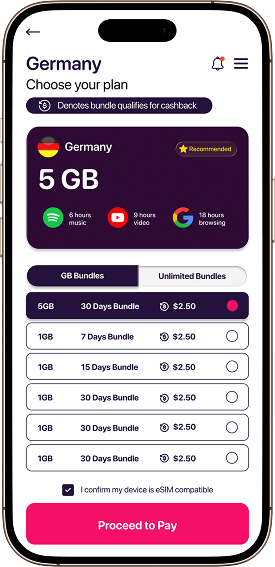
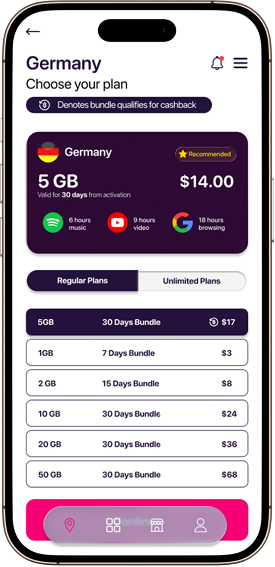
update single country

diff --git a/ar/single-country.html b/ar/single-country.html
@@ -119,20 +119,27 @@
                                     موصى به
                                 </div>
                             </div>
-                            <div class="flex flex-wrap gap-2 justify-between">
-                                <div class="flex flex-col gap-2">
-                                    <h3 class="font-bold text-4xl">غير محدود لمدة 7 أيام</h3>
-                                    <p class="text-nowrap font-medium text-xs">وصول غير محدود إلى الإنترنت*
-                                    </p>
-                                </div>
-                                <h3 class="font-bold text-4xl">$7.00</h3>
-                            </div>
                         </div>
-                        <p class="font-medium leading-5 text-xs">في حال تجاوزت 1 جيجابايت من البيانات المسموح بها يوميًا
+                        <div class="flex flex-col gap-4">
+                            <div class="flex flex-wrap gap-2 justify-between">
+                                <h3 class="font-bold text-4xl">غير محدود لمدة 7 أيام</h3>
+                                <h3 class="font-bold text-4xl">$17.00</h3>
+                            </div>
+                            <p class="opacity-90 text-nowrap font-medium text-xs">وصول غير محدود للإنترنت*
+                            </p>
+                            <p class="opacity-90 font-medium leading-5 text-xs">في حال تجاوزت 1 جيجابايت من البيانات
+                                المسموح بها يوميًا
+                                (بسرعة عالية)،
+                                سيتم تحديد السرعة إلى 512 كيلوبت في الثانية لبقية اليوم، مما قد يؤثر على تجربتك في
+                                مشاهدة
+                                الفيديوهات عبر الإنترنت واستخدام التطبيقات الأخرى التي تستهلك كميات كبيرة من البيانات.
+                            </p>
+                        </div>
+                        <!-- <p class="font-medium leading-5 text-xs">في حال تجاوزت 1 جيجابايت من البيانات المسموح بها يوميًا
                             (بسرعة عالية)،
                             سيتم تحديد السرعة إلى 512 كيلوبت في الثانية لبقية اليوم، مما قد يؤثر على تجربتك في مشاهدة
                             الفيديوهات عبر الإنترنت واستخدام التطبيقات الأخرى التي تستهلك كميات كبيرة من البيانات.
-                        </p>
+                        </p> -->
                     </div>
                 </div>
             </div>
@@ -479,15 +486,80 @@
                     </ul>
                     <ul class="list-unlimited-plans w-full flex flex-col gap-[10px] hidden">
                         <li class="cursor-pointer group hover:bg-[var(--is-blue)] hover:text-white rounded-[10px] border border-[var(--is-blue)] bundle-item"
-                            data-aos="fade-up" title="حزمة 30 يومًا"
-                            data-bundle='{"size":"50GB","name":"حزمة 30 يومًا","price":"$68.00"}'>
+                            data-aos="fade-up" title="إنترنت بدون حدود"
+                            data-bundle='{"size":"7 days","name":"Unlimited Internet","price":"$17.00"}'>
                             <div class="font-bold w-full py-2 px-3 md:px-4 flex justify-between items-center">
-                                <p class="text-sm md:text-2xl">50GB</p>
-                                <p class="text-sm md:text-lg">حزمة 30 يومًا</p>
+                                <p class="text-sm md:text-2xl">7 ايام</p>
+                                <p class="text-sm md:text-lg">إنترنت بدون حدود</p>
                                 <div class="flex items-center gap-[5px] w-[110px] min-w-[20px]">
                                     <img src="../assets/icons/cashback.svg" alt="cashback"
                                         class="w-3 h-3 md:w-5 md:h-5 group-hover:invert" />
-                                    <p class="text-sm md:text-lg break-all">$68.00</p>
+                                    <p class="text-sm md:text-lg break-all text-center">$17.00</p>
+                                </div>
+                            </div>
+                        </li>
+                        <li class="cursor-pointer group hover:bg-[var(--is-blue)] hover:text-white rounded-[10px] border border-[var(--is-blue)] bundle-item"
+                            data-aos="fade-up" title="إنترنت بدون حدود"
+                            data-bundle='{"size":"1 days","name":"Unlimited Internet","price":"$3.00"}'>
+                            <div class="font-bold w-full py-2 px-3 md:px-4 flex justify-between items-center">
+                                <p class="text-sm md:text-2xl">1 ايام</p>
+                                <p class="text-sm md:text-lg">إنترنت بدون حدود</p>
+                                <div class="flex items-center gap-[5px] w-[110px] min-w-[20px]">
+                                    <img src="../assets/icons/cashback.svg" alt="cashback"
+                                        class="w-3 h-3 md:w-5 md:h-5 group-hover:invert" />
+                                    <p class="text-sm md:text-lg break-all text-center">$3.00</p>
+                                </div>
+                            </div>
+                        </li>
+                        <li class="cursor-pointer group hover:bg-[var(--is-blue)] hover:text-white rounded-[10px] border border-[var(--is-blue)] bundle-item"
+                            data-aos="fade-up" title="إنترنت بدون حدود"
+                            data-bundle='{"size":"3 days","name":"Unlimited Internet","price":"$8.00"}'>
+                            <div class="font-bold w-full py-2 px-3 md:px-4 flex justify-between items-center">
+                                <p class="text-sm md:text-2xl">3 ايام</p>
+                                <p class="text-sm md:text-lg">إنترنت بدون حدود</p>
+                                <div class="flex items-center gap-[5px] w-[110px] min-w-[20px]">
+                                    <img src="../assets/icons/cashback.svg" alt="cashback"
+                                        class="w-3 h-3 md:w-5 md:h-5 group-hover:invert" />
+                                    <p class="text-sm md:text-lg break-all text-center">$8.00</p>
+                                </div>
+                            </div>
+                        </li>
+                        <li class="cursor-pointer group hover:bg-[var(--is-blue)] hover:text-white rounded-[10px] border border-[var(--is-blue)] bundle-item"
+                            data-aos="fade-up" title="إنترنت بدون حدود"
+                            data-bundle='{"size":"6 days","name":"Unlimited Internet","price":"$13.00"}'>
+                            <div class="font-bold w-full py-2 px-3 md:px-4 flex justify-between items-center">
+                                <p class="text-sm md:text-2xl">6 ايام</p>
+                                <p class="text-sm md:text-lg">إنترنت بدون حدود</p>
+                                <div class="flex items-center gap-[5px] w-[110px] min-w-[20px]">
+                                    <img src="../assets/icons/cashback.svg" alt="cashback"
+                                        class="w-3 h-3 md:w-5 md:h-5 group-hover:invert" />
+                                    <p class="text-sm md:text-lg break-all text-center">$13.00</p>
+                                </div>
+                            </div>
+                        </li>
+                        <li class="cursor-pointer group hover:bg-[var(--is-blue)] hover:text-white rounded-[10px] border border-[var(--is-blue)] bundle-item"
+                            data-aos="fade-up" title="إنترنت بدون حدود"
+                            data-bundle='{"size":"10 days","name":"Unlimited Internet","price":"$24.00"}'>
+                            <div class="font-bold w-full py-2 px-3 md:px-4 flex justify-between items-center">
+                                <p class="text-sm md:text-2xl">10 ايام</p>
+                                <p class="text-sm md:text-lg">إنترنت بدون حدود</p>
+                                <div class="flex items-center gap-[5px] w-[110px] min-w-[20px]">
+                                    <img src="../assets/icons/cashback.svg" alt="cashback"
+                                        class="w-3 h-3 md:w-5 md:h-5 group-hover:invert" />
+                                    <p class="text-sm md:text-lg break-all text-center">$24.00</p>
+                                </div>
+                            </div>
+                        </li>
+                        <li class="cursor-pointer group hover:bg-[var(--is-blue)] hover:text-white rounded-[10px] border border-[var(--is-blue)] bundle-item"
+                            data-aos="fade-up" title="إنترنت بدون حدود"
+                            data-bundle='{"size":"15 days","name":"Unlimited Internet","price":"$36.00"}'>
+                            <div class="font-bold w-full py-2 px-3 md:px-4 flex justify-between items-center">
+                                <p class="text-sm md:text-2xl">15 ايام</p>
+                                <p class="text-sm md:text-lg">إنترنت بدون حدود</p>
+                                <div class="flex items-center gap-[5px] w-[110px] min-w-[20px]">
+                                    <img src="../assets/icons/cashback.svg" alt="cashback"
+                                        class="w-3 h-3 md:w-5 md:h-5 group-hover:invert" />
+                                    <p class="text-sm md:text-lg break-all text-center">$36.00</p>
                                 </div>
                             </div>
                         </li>

diff --git a/en/single-country.html b/en/single-country.html
@@ -108,9 +108,9 @@
                         <div class="flex flex-col gap-[20px]">
                             <div class="flex flex-wrap gap-3 justify-between items-center w-full">
                                 <div class="flex items-center gap-[11px]">
-                                    <img src="../assets/icons/aferica.svg" alt="germany"
+                                    <img src="../assets/icons/germany.svg" alt="germany"
                                         class="w-[40px] lg:w-[50px] h-[40px] lg:h-[50px] rounded-full object-cover" />
-                                    <p class="font-semibold text-xl lg:text-4xl">Africa</p>
+                                    <p class="font-semibold text-xl lg:text-4xl">Germany</p>
                                 </div>
                                 <div
                                     class="border border-1 border-[var(--is-white)] flex items-center gap-1 text-md rounded-full bg-[var(--is-gold-1)] text-[var(--is-gold)] px-[8px] py-[6px]">
@@ -119,19 +119,19 @@
                                     Recommended
                                 </div>
                             </div>
-                            <div class="flex flex-wrap gap-2 justify-between">
-                                <div class="flex flex-col gap-2">
-                                    <h3 class="font-bold text-4xl">Unlimited 7 Days</h3>
-                                    <p class="text-nowrap font-medium text-xs">Unlimited Internet Access*
-                                    </p>
-                                </div>
-                                <h3 class="font-bold text-4xl">$7.00</h3>
-                            </div>
                         </div>
-                        <p class="font-medium leading-5 text-xs">In case of exceeding daily 1 GB
-                            high-speed allowance, speed will be limited to 512 Kbps for the remaining day, which may
-                            impact your experience with video streaming and other data-intensive applications.
-                        </p>
+                        <div class="flex flex-col gap-4">
+                            <div class="flex flex-wrap gap-2 justify-between">
+                                <h3 class="font-bold text-4xl">Unlimited 7 Days</h3>
+                                <h3 class="font-bold text-4xl">$17.00</h3>
+                            </div>
+                            <p class="opacity-90 text-nowrap font-medium text-xs">Unlimited Internet Access*
+                            </p>
+                            <p class="opacity-90 font-medium leading-5 text-xs">In case of exceeding daily 1 GB
+                                high-speed allowance, speed will be limited to 512 Kbps for the remaining day, which may
+                                impact your experience with video streaming and other data-intensive applications.
+                            </p>
+                        </div>
                     </div>
                 </div>
             </div>
@@ -481,7 +481,7 @@
                     <ul class="list-unlimited-plans w-full flex flex-col gap-[10px] hidden">
                         <li class="cursor-pointer group hover:bg-[var(--is-blue)] hover:text-white rounded-[10px] border border-[var(--is-blue)] bundle-item"
                             data-aos="fade-up" title="Unlimited Internet"
-                            data-bundle='{"size":"50GB","name":"Unlimited Internet","price":"$17.00"}'>
+                            data-bundle='{"size":"7 Days","name":"Unlimited Internet","price":"$17.00"}'>
                             <div class="font-bold w-full py-2 px-3 md:px-4 flex justify-between items-center">
                                 <p class="text-sm md:text-2xl">7 Days</p>
                                 <p class="text-sm md:text-lg">Unlimited Internet</p>
@@ -494,7 +494,7 @@
                         </li>
                         <li class="cursor-pointer group hover:bg-[var(--is-blue)] hover:text-white rounded-[10px] border border-[var(--is-blue)] bundle-item"
                             data-aos="fade-up" title="Unlimited Internet"
-                            data-bundle='{"size":"50GB","name":"Unlimited Internet","price":"$3.00"}'>
+                            data-bundle='{"size":"1 Days","name":"Unlimited Internet","price":"$3.00"}'>
                             <div class="font-bold w-full py-2 px-3 md:px-4 flex justify-between items-center">
                                 <p class="text-sm md:text-2xl">1 Days</p>
                                 <p class="text-sm md:text-lg">Unlimited Internet</p>
@@ -507,7 +507,7 @@
                         </li>
                         <li class="cursor-pointer group hover:bg-[var(--is-blue)] hover:text-white rounded-[10px] border border-[var(--is-blue)] bundle-item"
                             data-aos="fade-up" title="Unlimited Internet"
-                            data-bundle='{"size":"50GB","name":"Unlimited Internet","price":"$8.00"}'>
+                            data-bundle='{"size":"3 Days","name":"Unlimited Internet","price":"$8.00"}'>
                             <div class="font-bold w-full py-2 px-3 md:px-4 flex justify-between items-center">
                                 <p class="text-sm md:text-2xl">3 Days</p>
                                 <p class="text-sm md:text-lg">Unlimited Internet</p>
@@ -520,7 +520,7 @@
                         </li>
                         <li class="cursor-pointer group hover:bg-[var(--is-blue)] hover:text-white rounded-[10px] border border-[var(--is-blue)] bundle-item"
                             data-aos="fade-up" title="Unlimited Internet"
-                            data-bundle='{"size":"50GB","name":"Unlimited Internet","price":"$13.00"}'>
+                            data-bundle='{"size":"6 Days","name":"Unlimited Internet","price":"$13.00"}'>
                             <div class="font-bold w-full py-2 px-3 md:px-4 flex justify-between items-center">
                                 <p class="text-sm md:text-2xl">6 Days</p>
                                 <p class="text-sm md:text-lg">Unlimited Internet</p>
@@ -533,7 +533,7 @@
                         </li>
                         <li class="cursor-pointer group hover:bg-[var(--is-blue)] hover:text-white rounded-[10px] border border-[var(--is-blue)] bundle-item"
                             data-aos="fade-up" title="Unlimited Internet"
-                            data-bundle='{"size":"50GB","name":"Unlimited Internet","price":"$24.00"}'>
+                            data-bundle='{"size":"10 Days","name":"Unlimited Internet","price":"$24.00"}'>
                             <div class="font-bold w-full py-2 px-3 md:px-4 flex justify-between items-center">
                                 <p class="text-sm md:text-2xl">10 Days</p>
                                 <p class="text-sm md:text-lg">Unlimited Internet</p>
@@ -546,7 +546,7 @@
                         </li>
                         <li class="cursor-pointer group hover:bg-[var(--is-blue)] hover:text-white rounded-[10px] border border-[var(--is-blue)] bundle-item"
                             data-aos="fade-up" title="Unlimited Internet"
-                            data-bundle='{"size":"50GB","name":"Unlimited Internet","price":"$36.00"}'>
+                            data-bundle='{"size":"15 Days","name":"Unlimited Internet","price":"$36.00"}'>
                             <div class="font-bold w-full py-2 px-3 md:px-4 flex justify-between items-center">
                                 <p class="text-sm md:text-2xl">15 Days</p>
                                 <p class="text-sm md:text-lg">Unlimited Internet</p>
@@ -559,7 +559,7 @@
                         </li>
                         <li class="cursor-pointer group hover:bg-[var(--is-blue)] hover:text-white rounded-[10px] border border-[var(--is-blue)] bundle-item"
                             data-aos="fade-up" title="Unlimited Internet"
-                            data-bundle='{"size":"50GB","name":"Unlimited Internet","price":"$68.00"}'>
+                            data-bundle='{"size":"30 Days","name":"Unlimited Internet","price":"$68.00"}'>
                             <div class="font-bold w-full py-2 px-3 md:px-4 flex justify-between items-center">
                                 <p class="text-sm md:text-2xl">30 Days</p>
                                 <p class="text-sm md:text-lg">Unlimited Internet</p>

diff --git a/assets/css/output.css b/assets/css/output.css
@@ -2219,8 +2219,14 @@
   .opacity-50 {
     opacity: 50%;
   }
+  .opacity-70 {
+    opacity: 70%;
+  }
   .opacity-80 {
     opacity: 80%;
+  }
+  .opacity-90 {
+    opacity: 90%;
   }
   .opacity-\[0\.5\] {
     opacity: 0.5;